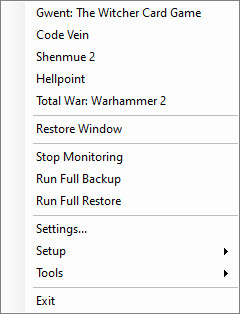
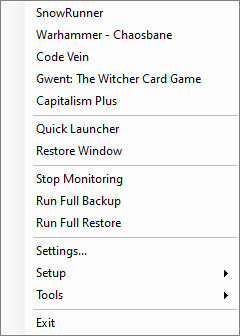
Updates for Quick Launcher

Changed region(s): [[0.1458, 0.086, 0.9917, 0.9745], [0.1458, 0.0, 0.8458, 0.0573], [0.9333, 0.7739, 0.9625, 0.8312]]

diff --git a/manual.html b/manual.html
@@ -514,8 +514,24 @@
           <div class="pageSectionContent"> 
             <p>Starting with v1.2.4, Game Backup Monitor can be used to launch any monitored game.  Please read the <a href="launcher.html">Launcher FAQ</a> for answers to common questions.</p>
             <p>This feature is optional and must be enabled before it can be used.  See the <a href="#settings">Settings</a> section for details.</p>          
-            <p>Any configured game can be launched from the "Launch Options" button on the Game Manager.  In addition, the tray menu will display up to five recently played games for quick launching.</p>
-            <img class="manual" src="images/manual/manual_27.jpg" width="240" height="314" alt="Tray Menu Example" />
+            <p>Games can be launched in the following ways:
+              <ol>
+                <li>The tray menu will display up to five recently played games you can select to launch.</li>
+                <li>The "Quick Launcher" window allows you to quickly launch any configured game.  See the "Quick Launcher" section below for details.</li>
+                <li>The "Launch Options" button on the Game Manager.</li>
+              </ol> 
+            </p>
+            <img class="manual" src="images/manual/manual_27.jpg" width="240" height="336" alt="Tray Menu Example" />
+            <h3>Quick Launcher</h3>
+            <p>The Quick Launcher provides a way to find and launch any configured game with a few key presses.</p>            
+            <img class="manual" src="images/manual/manual_33.jpg" width="411" height="249" alt="Quick Launcher" /><br />
+            <p>The Quick Launcher can be accessed using the option on the tray menu, or using the hot key "Ctrl + L" on the main window.
+              <ol>
+                <li>Enter the name of the game you want, the available options will filter automatically as you type.</li>
+                <li>Select the game you want and press "Enter" to launch it, or press "Esc" to cancel and close the window.</li>
+              </ol>
+            </p>
+            <p>Please note that "Ctrl + L" is not a global hot key.  The main GBM window must have focus for it to work.</p>
             <h3>Launch Configuration</h3>
             <p>GBM will usually be able to launch any monitored game that has been detected at least once without any extra configuration.  Advanced configuration options are also provided for fine tuning and to work around any problems that may be encountered.</p>            
             <p>The launch settings for any game can be modified from the Game Manager, by using the "Launch Options" button and choosing "Settings" to open "Launch Configuration".</p>

diff --git a/launcher.html b/launcher.html
@@ -47,8 +47,9 @@
             </ul>
             <p class="large">How do I launch games with Game Backup Monitor?</p>
             <ul>
-              <li>You can launch any of the last five recently played games by right-clicking the system tray icon and choosing the game you'd like to play.</li>
-              <li>You can also launch any game from the Game Manager using the "Launch Options" button.</li>
+              <li>Launch any of the last five recently played games by right-clicking the system tray icon and choosing the game you'd like to play.</li>
+              <li>Use the "Quick Launcher" to find and launch any configured game.  It's accessed via the tray menu or using "Ctrl + L" on the main window.</li>
+              <li>Launch any game directly from the Game Manager using the "Launch Options" button.</li>
             </ul>
             <p class="large">Why do I always get an error about missing information when trying to launch my games?</p>
             <ul>
